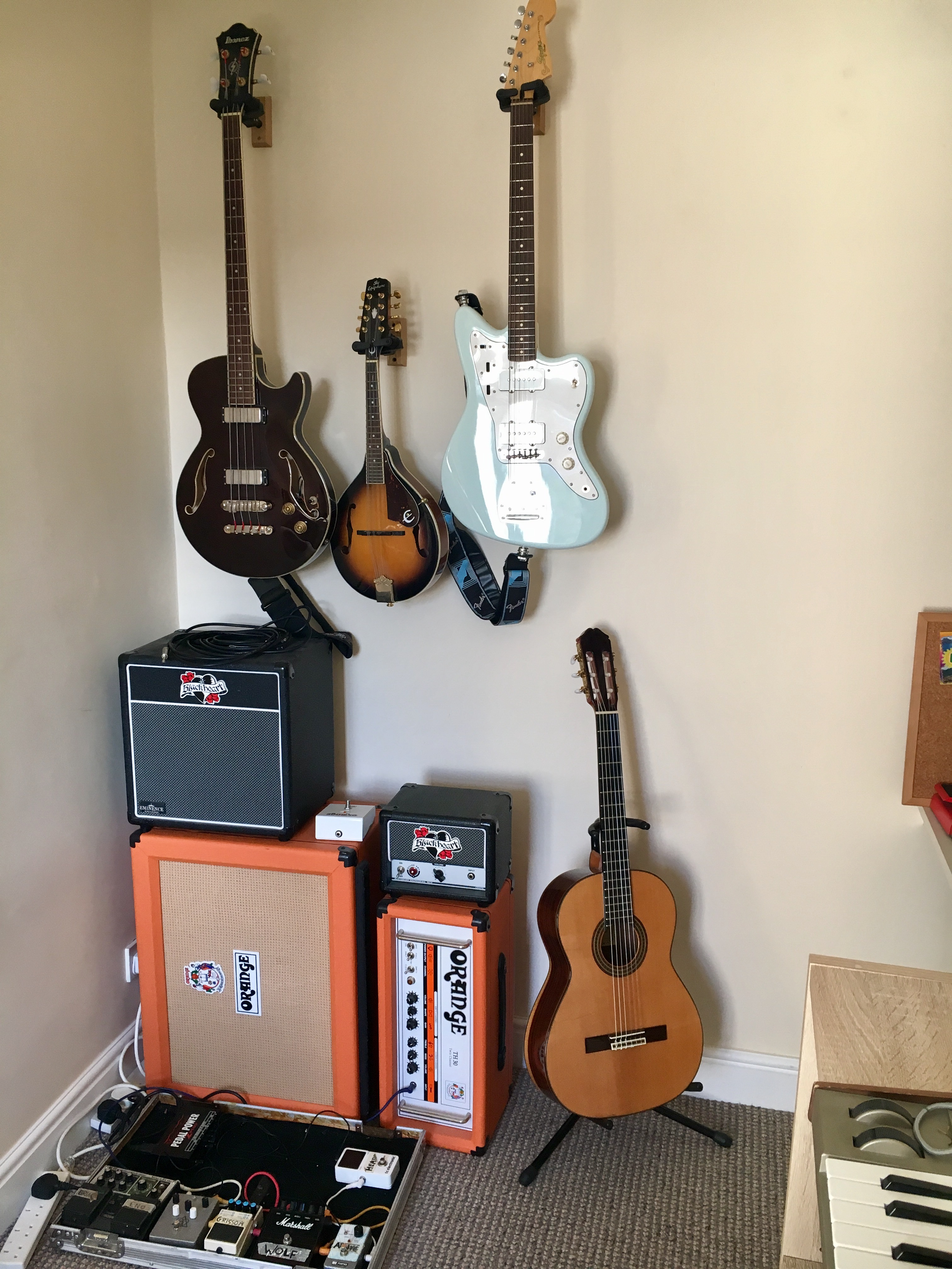
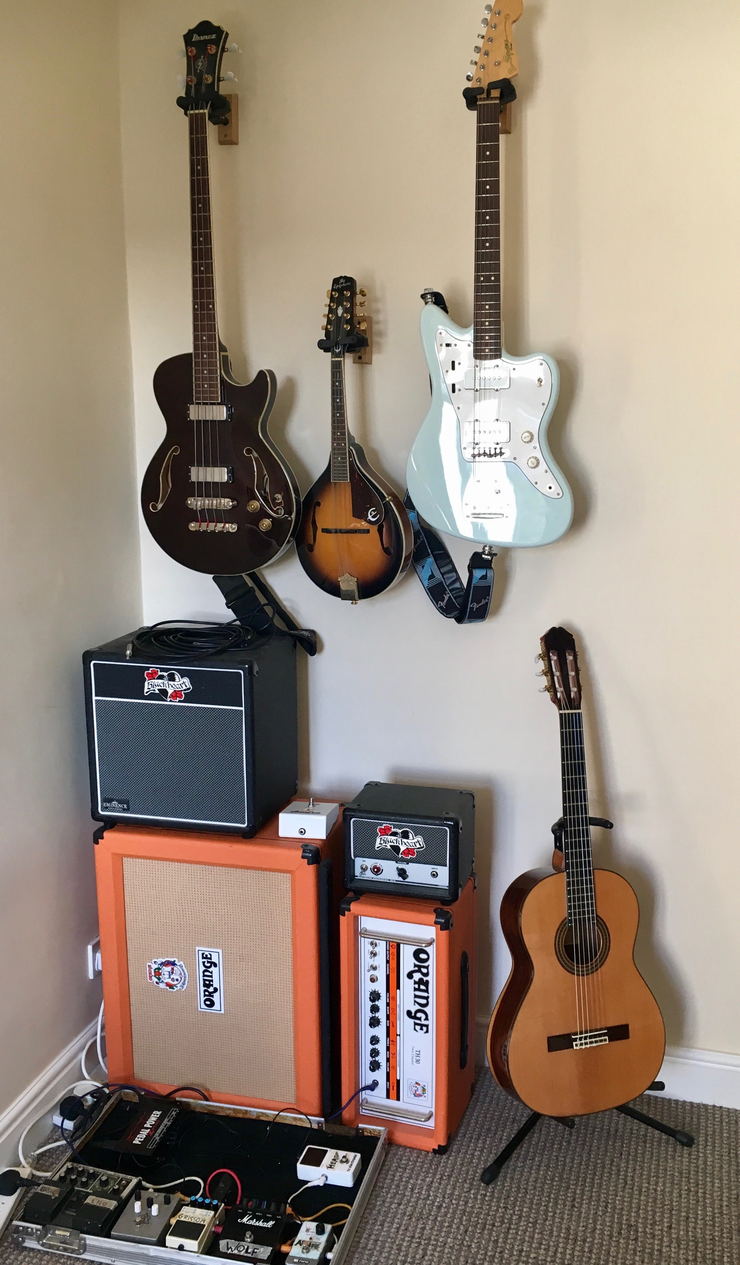
Photo Edit

diff --git a/Facilities.html b/Facilities.html
@@ -34,7 +34,7 @@
   <div class = "mid">
     <div class = "main-text">
       <h1>Facilities</h1>
-      <img  class = "text-image" src="images/FullSizeRender 6.jpg" alt="Studio" align="left" width="210" height="279">
+      <img  class = "text-image" src="images/FullSizeRender 6.jpg" alt="Studio" align="left" width="150" height="261">
 	  <p>Lessons can be taken either via home visits, or using my personal teaching studio, situated in Newfoundpool, Leicester.<p/>
       
       <ul>
